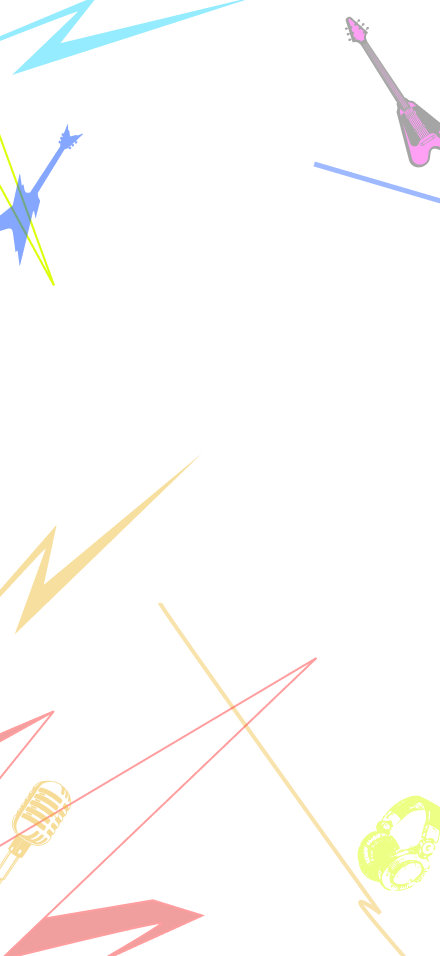
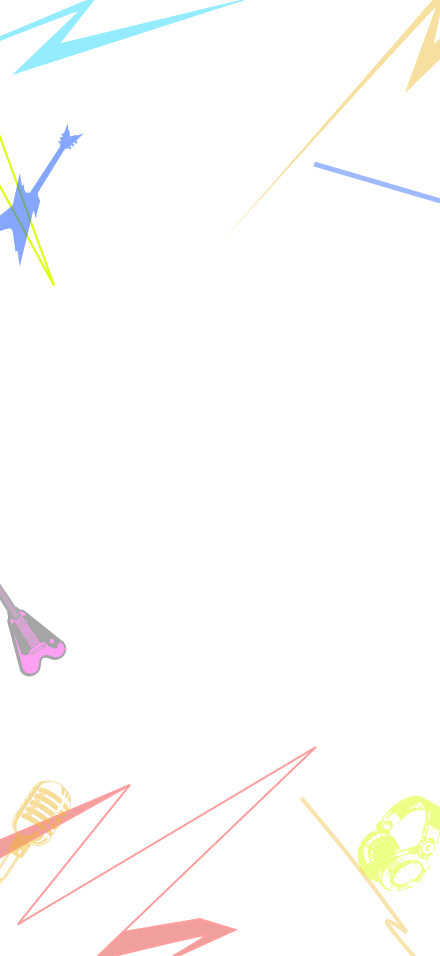
Added animations

diff --git a/src/pages/past-winners/PastWinners.tsx b/src/pages/past-winners/PastWinners.tsx
@@ -1,7 +1,39 @@
-import { forwardRef } from 'react'
+import { forwardRef, useRef } from 'react'
 import styles from './PastWinners.module.scss'
+import gsap from 'gsap';
+import { useGSAP } from '@gsap/react';
+import { ScrollTrigger } from 'gsap/ScrollTrigger';
 
 export const PastWinners = forwardRef<HTMLDivElement>((_, ref) => {
+
+    const imgRefs = useRef<HTMLImageElement[]>([]);
+    const setImgRef = (index: number) => {
+        return (element: HTMLImageElement) => {
+            if (element && imgRefs.current) imgRefs.current[index] = element;
+        }
+    }
+    const pwGalleryRef = useRef<HTMLDivElement>(null);
+
+    useGSAP(() => {
+        if (!ref) return
+        gsap.registerPlugin(ScrollTrigger);
+
+        imgRefs.current.forEach((img, i) => {
+            gsap.from(img, {
+                x: `+=${-90 + (60*i)}`,
+                opacity: 0,
+                scrollTrigger: {
+                    trigger: pwGalleryRef.current,
+                    start: "top bottom",
+                    end: "top 15%",
+                    scrub: true
+                },
+                ease: "sine.inOut"
+            })
+        })
+
+    })
+
     return (
         <div className={styles.pastWinnersPage} ref={ref}>
             <div className={styles.pwPageBg}>
@@ -20,11 +52,11 @@ export const PastWinners = forwardRef<HTMLDivElement>((_, ref) => {
                         <img className={styles.bgGtr1} src="./images/winners/guitarist.png" />
                         <img className={styles.bgGtr2} src="./images/winners/guitarist-2.png" />
                     </div>
-                    <div className={styles.pwGallery}>
-                        <img className={styles.pwImage} src="./images/winners/indian-ocean.png" />
-                        <img className={styles.pwImage} src="./images/winners/them-clones.png" />
-                        <img className={styles.pwImage} src="./images/winners/parikrama.png" />
-                        <img className={styles.pwImage} src="./images/winners/prestorika.png" />
+                    <div className={styles.pwGallery} ref={pwGalleryRef}>
+                        <img className={styles.pwImage} ref={setImgRef(0)} src="./images/winners/indian-ocean.png" />
+                        <img className={styles.pwImage} ref={setImgRef(1)} src="./images/winners/them-clones.png" />
+                        <img className={styles.pwImage} ref={setImgRef(2)} src="./images/winners/parikrama.png" />
+                        <img className={styles.pwImage} ref={setImgRef(3)} src="./images/winners/prestorika.png" />
                     </div>
                 </div>
             </div>

diff --git a/src/pages/home/Home.tsx b/src/pages/home/Home.tsx
@@ -1,4 +1,4 @@
-import { forwardRef, useContext } from 'react'
+import { forwardRef, useContext, useRef } from 'react'
 import styles from './Home.module.scss'
 import { Link } from 'react-router'
 import { AppContext, type AppContextType } from '../../App'
@@ -9,31 +9,58 @@ import gsap from 'gsap'
 export const Home = forwardRef<HTMLDivElement, {scrollToPage: (page: string) => void}>(({scrollToPage}, ref) => {
 
 	const {appStates} = useContext<AppContextType>(AppContext);
+	const bgOverlayImgRef = useRef<HTMLImageElement>(null);
+	const headingCharsRef = useRef<HTMLSpanElement[]>([]);
+
+	const setHeadingCharsRef = (i: number) => {
+		return (char: HTMLSpanElement) => {
+			if (headingCharsRef.current) headingCharsRef.current[i] = char;
+		}
+	}
 
 	useGSAP(() => {
-		return
 		gsap.registerPlugin(ScrollTrigger);
-		gsap.to(`.${styles.homeBgImageOverlay}`, {
+		gsap.to(bgOverlayImgRef.current, {
 			scale: 5,
+			translateY: "-50%",
 			scrollTrigger: {
-				trigger: `.${styles.homeBgImageOverlay}`,
+				trigger: bgOverlayImgRef.current,
 				start: "top top",
-				end: "bottom top",
-
-			}
+				end: "+=100%",
+				scrub: true,
+			},
+			ease: "power1.in"
+		})
+		console.log(headingCharsRef.current)
+		const maxDisplacement = 0
+		headingCharsRef.current?.forEach((char, i) => {
+			gsap.to(char, {
+				x: `+=${-maxDisplacement + i*maxDisplacement/4}`,
+				scrollTrigger: {
+					trigger: bgOverlayImgRef.current, //since it is fixed to the home screen anyway
+					start: "top top",
+					end:  "bottom top",
+					scrub: true,
+					markers: true
+				}
+			})
 		})
 	})
 
 	return (
 		<div className={styles.home} ref={ref}>
 			<div className={styles.homeBg}>
-				<img className={styles.homeBgImageOverlay} src={appStates?.isMobile ? "/images/home/home-bg-overlay-mobile.png" : "/images/home/home-bg-overlay.png"} />
+				<img 
+					className={styles.homeBgImageOverlay} 
+					src={appStates?.isMobile ? "/images/home/home-bg-overlay-mobile.png" : "/images/home/home-bg-overlay.png"}
+					ref={bgOverlayImgRef}
+				/>
 			</div>
 			<div className={styles.homeContent}>
 				<h1 className={styles.title}>
 					{
 						"Rocktaves".split("").map((char, i) => (
-							<span key={i}>{char}</span>
+							<span ref={setHeadingCharsRef(i)} key={i}>{char}</span>
 						))
 					}
 				</h1>

diff --git a/src/pages/about/About.tsx b/src/pages/about/About.tsx
@@ -1,7 +1,32 @@
-import { forwardRef } from 'react'
+import { forwardRef, useRef } from 'react'
 import styles from './About.module.scss'
+import { SplitText } from 'gsap/all';
+import { useGSAP } from '@gsap/react';
+import gsap from "gsap";
 
 export const About = forwardRef<HTMLDivElement>((_, ref) => {
+
+    const contentRef = useRef<HTMLDivElement>(null);
+    useGSAP(() => {
+        return
+        SplitText.create(contentRef.current, {
+            type: "lines",
+            mask: "words",
+            autoSplit: true,
+            onSplit(self) {
+                return gsap.from(self.lines, {
+                    y: -10,
+                    opacity: 0,
+                    duration: 1,
+                    scrollTrigger: {
+                        trigger: contentRef.current,
+                        toggleActions: "play reset play reset",
+                    }
+                })
+            }
+        })
+    })
+
     return (
         <div className={styles.about} ref={ref}>
             <h2 className={styles.aboutTitle}>
@@ -11,7 +36,7 @@ export const About = forwardRef<HTMLDivElement>((_, ref) => {
                     ))
                 }
             </h2>
-            <div className={styles.aboutContent}>
+            <div className={styles.aboutContent} ref={contentRef}>
                 <p className={styles.aboutText}>Rocktaves is one of the nation’s oldest semi-professional rock band competitions. We have hosted some of India’s premier bands such as 
                     <span> Indian Ocean</span>, 
                     <span> Parikrama</span>, 

diff --git a/src/pages/home/Home.module.scss b/src/pages/home/Home.module.scss
@@ -15,9 +15,10 @@
         width: 100%;
         height: 100%;
         z-index: -1;
+        overflow: hidden;
 
         img {
-            position: absolute;
+            position: fixed;
             top: 0;
             left: 0;
             width: 100%;
@@ -43,7 +44,6 @@
         top: 50%;
         left: 50%;
         transform: translate(-50%, -36%);
-        text-align: center;
         color: $primaryColor;
         width: 60%;
 
@@ -54,6 +54,10 @@
             margin-bottom: 18px;
             font-family: $titleFont;
             font-weight: lighter;
+            display: flex;
+            justify-content: center;
+
+            span {display: block;}
 
             @for $letterIndex from 1 through 9 {
                 span:nth-child(#{$letterIndex}) {

diff --git a/src/pages/register/Register.module.scss b/src/pages/register/Register.module.scss
@@ -71,6 +71,10 @@
                     gap: 45px 36px;
                     flex-wrap: wrap;
 
+                    @media (max-width: $breakPoint) {
+                        // gap: 45px 0px;
+                        justify-content: center;
+                    }
                     .venueSelectWrapper {
                         input {
                             display: none;
@@ -279,7 +283,6 @@
         }
     }
 }
-
 
 .bandInfoInputWrapper {
     position: relative;

diff --git a/src/global.module.scss b/src/global.module.scss
@@ -12,12 +12,12 @@ $titleColors: (
     #0000ff,
     #00ff00,
     #64c4ff,
-    #1aff00,
+    #ff3c00,
     #006aac,
     #ffff00,
     aqua,
     magenta,
-    #ff3c00,
+    #1aff00,
     #ffd700,
     #ff0059
 );
@@ -50,4 +50,8 @@ $titleColors: (
 body {
     margin: 0px;
     width: calc(100vw - (100vw - 100%));
+}
+
+* {
+    user-select: none;
 }

diff --git a/src/pages/about/About.module.scss b/src/pages/about/About.module.scss
@@ -38,6 +38,8 @@
             line-height: 1.8rem;
             font-family: $paraFont;
             color: $primaryColor;
+            margin: 0px;
+
 
             @for $i from 2 through 6 {
                 span:nth-child(#{$i}) {
